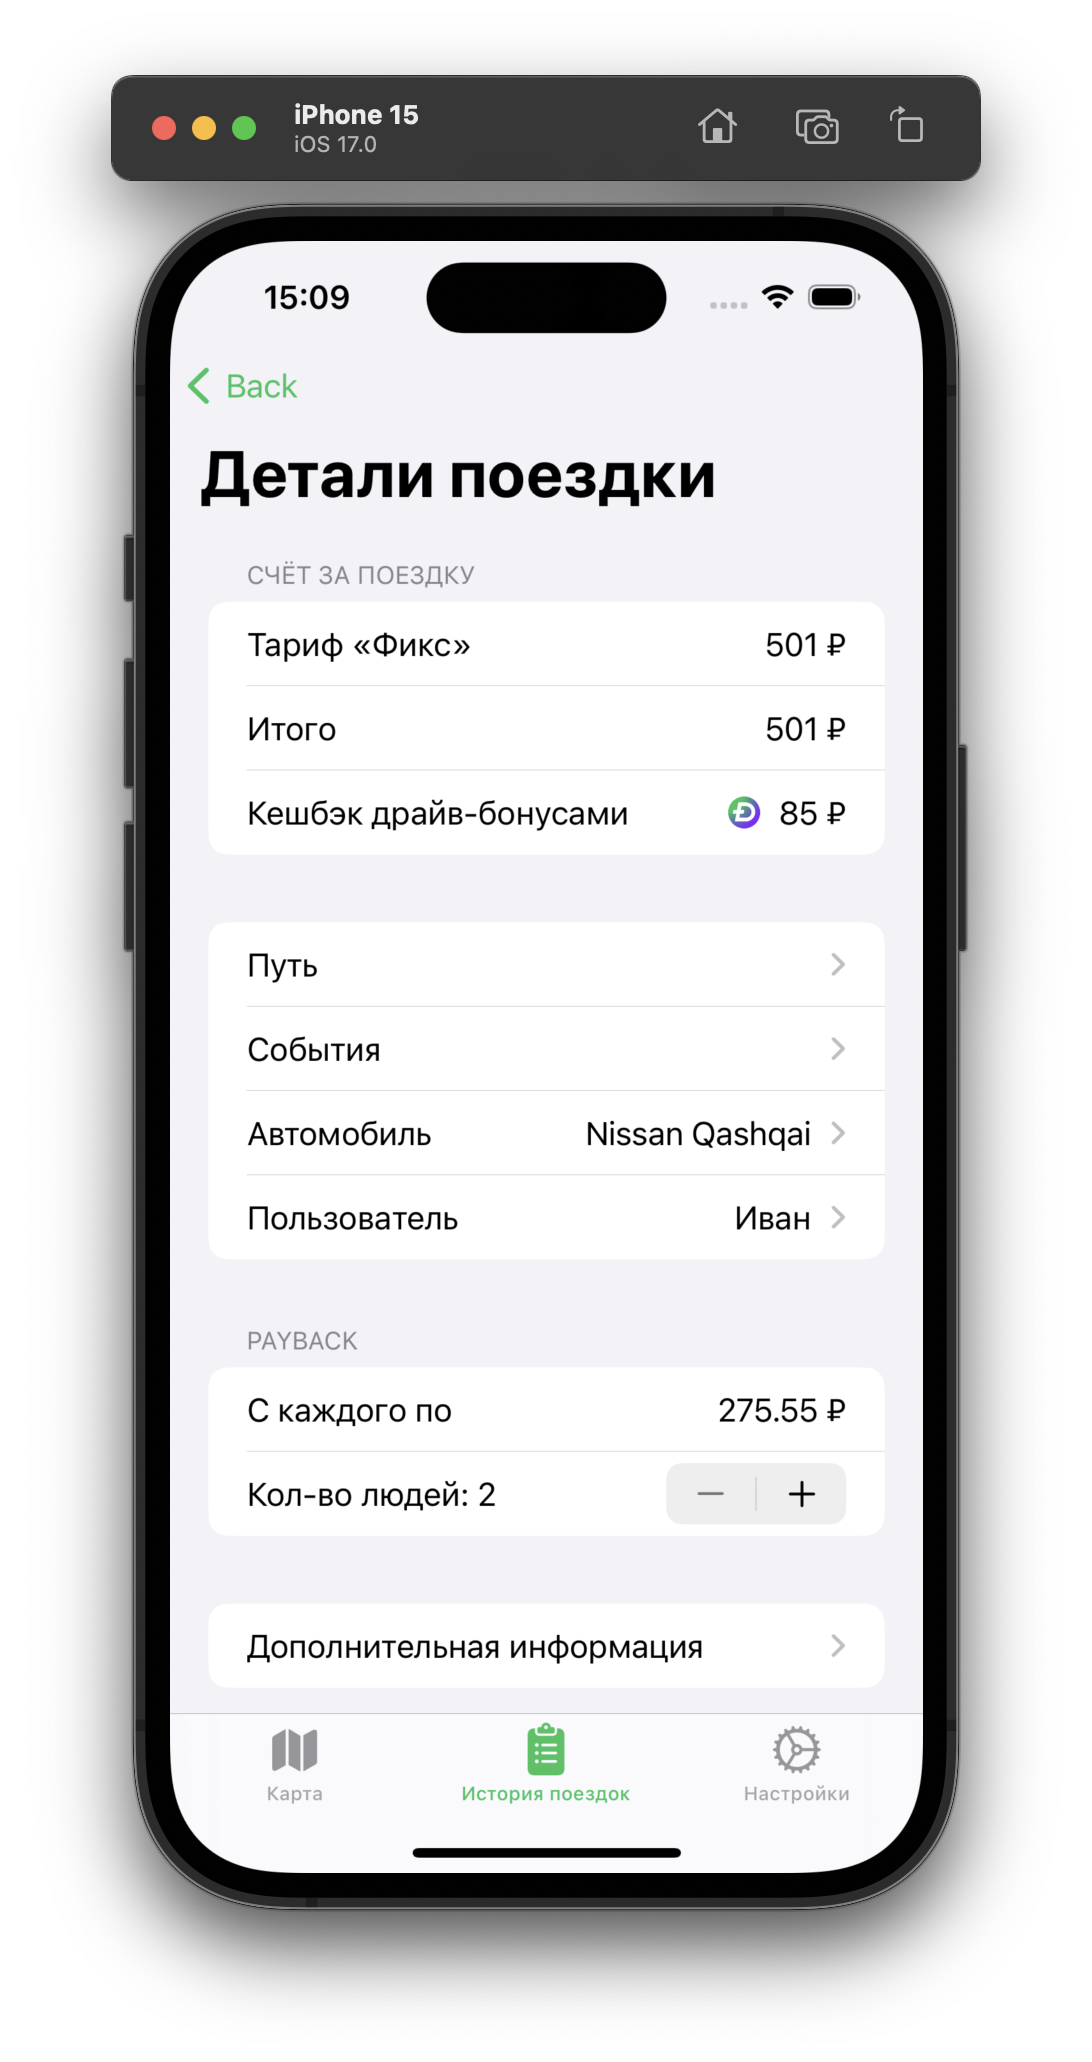
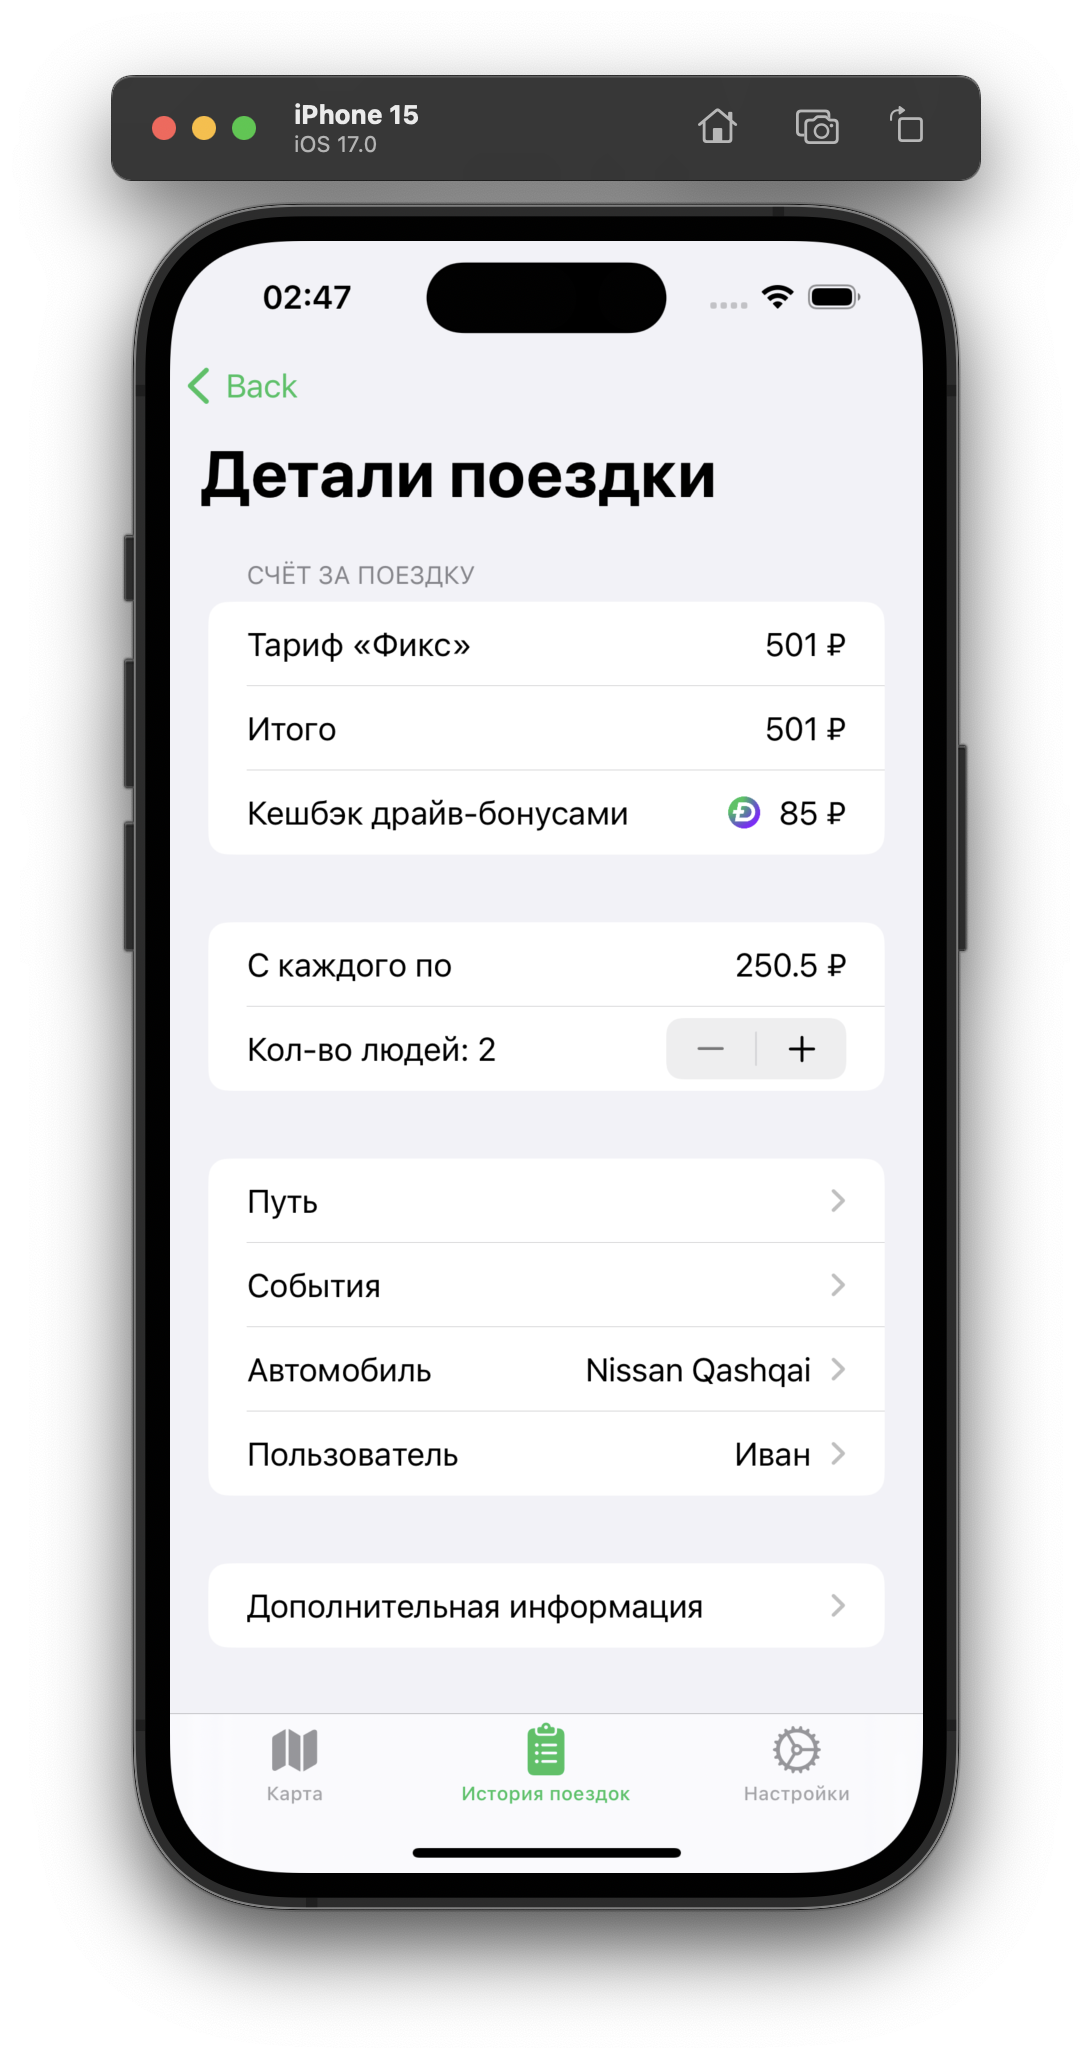
update(driver discont)

diff --git a/CityDrive/CityDrive/View/Order/OrderDetailsView.swift b/CityDrive/CityDrive/View/Order/OrderDetailsView.swift
@@ -23,6 +23,20 @@ struct OrderDetailsView: View {
                 }
 
                 Section {
+                    SimpleCellView(
+                        name: "С каждого по",
+                        value: "\(orderVM.duty) ₽"
+                    )
+                    Stepper(
+                        "Кол-во людей: \(orderVM.peopleCount)",
+                        value: $orderVM.peopleCount, in: 2...5
+                    )
+                    .onChange(of: orderVM.peopleCount) {
+                        orderVM.calculateDuty()
+                    }
+                }
+
+                Section {
                     NavigationLink(destination: { AboutPathView(path: orderVM.currentOrder?.path) }) {
                         Text("Путь")
                     }
@@ -42,20 +56,6 @@ struct OrderDetailsView: View {
                             Spacer()
                             Text(orderVM.currentOrder?.user.firstName ?? "").colorMultiply(.gray)
                         }
-                    }
-                }
-
-                Section("payback") {
-                    SimpleCellView(
-                        name: "С каждого по",
-                        value: "\(orderVM.duty) ₽"
-                    )
-                    Stepper(
-                        "Кол-во людей: \(orderVM.peopleCount)",
-                        value: $orderVM.peopleCount, in: 2...5
-                    )
-                    .onChange(of: orderVM.peopleCount) {
-                        orderVM.calculateDuty()
                     }
                 }
 

diff --git a/CityDrive/CityDrive/View/SettingView.swift b/CityDrive/CityDrive/View/SettingView.swift
@@ -39,12 +39,16 @@ struct SettingView: View {
                             Text(MapType.hybrid.title).tag(MapType.hybrid)
                         }
                     }
-                    Section("payback") {
-                        Stepper(
-                            "Текущий процент: \(settingVM.paybackPercent.description)",
-                            value: settingVM.$paybackPercent, in: 0...100
-                        )
-                    }
+                    Section(content: {
+                        Toggle("Водитель платит меньше", isOn: settingVM.$isDriverDiscont)
+                        if settingVM.isDriverDiscont {
+                            Stepper(value: settingVM.$paybackPercent) {
+                                Text("Процент: \(settingVM.paybackPercent)")
+                            }
+                        }
+                    }, footer: {
+                        Text("Из доли водителя вычтется процент и распределится между остальными участниками поездки.")
+                    })
                     Toggle("Тёмная тема", isOn: settingVM.$isDarkMode)
                 }
             }

diff --git a/CityDrive/CityDrive/ViewModel/OrdersViewModel.swift b/CityDrive/CityDrive/ViewModel/OrdersViewModel.swift
@@ -7,6 +7,7 @@ class OrdersViewModel: ObservableObject {
     @Published var currentMiddleOrder: MiddleOrder?
 
     @AppStorage(Settings.paybackPercent) private var percent: Int = 20
+    @AppStorage(Settings.isDriverDiscont) var isDriverDiscont = false
     @Published var amount: Double = 0
     @Published var duty: Double = 0
     @Published var peopleCount: Int = 2
@@ -22,7 +23,12 @@ class OrdersViewModel: ObservableObject {
     }
 
     func calculateDuty() {
-        let duty = amount / Double(peopleCount) * (1.0 + (Double(percent) / (100.0 * Double(peopleCount))))
+        var duty = amount / Double(peopleCount)
+
+        if isDriverDiscont {
+            duty += (duty * Double(percent)) / 100
+        }
+
         self.duty = duty.roundedToTwoDecimalPlaces()
     }
 

diff --git a/CityDrive/CityDrive/ViewModel/SettingViewModel.swift b/CityDrive/CityDrive/ViewModel/SettingViewModel.swift
@@ -12,6 +12,7 @@ class SettingViewModel: ObservableObject {
     @AppStorage(Settings.city) var city: City = .moscow
     @AppStorage(Settings.isDarkMode) var isDarkMode: Bool = true
     @AppStorage(Settings.paybackPercent) var paybackPercent: Int = 20
+    @AppStorage(Settings.isDriverDiscont) var isDriverDiscont = false
 
     init() {
         self.networkManager = NetworkManager()

diff --git a/CityDrive/CityDrive/Settings.swift b/CityDrive/CityDrive/Settings.swift
@@ -7,6 +7,7 @@ struct Settings {
     static var city = "city"
     static var isDarkMode = "isDarkMode"
     static var paybackPercent = "paybackPercent"
+    static var isDriverDiscont = "paybackPercent"
 
     static var sessionID: String {
         get {
